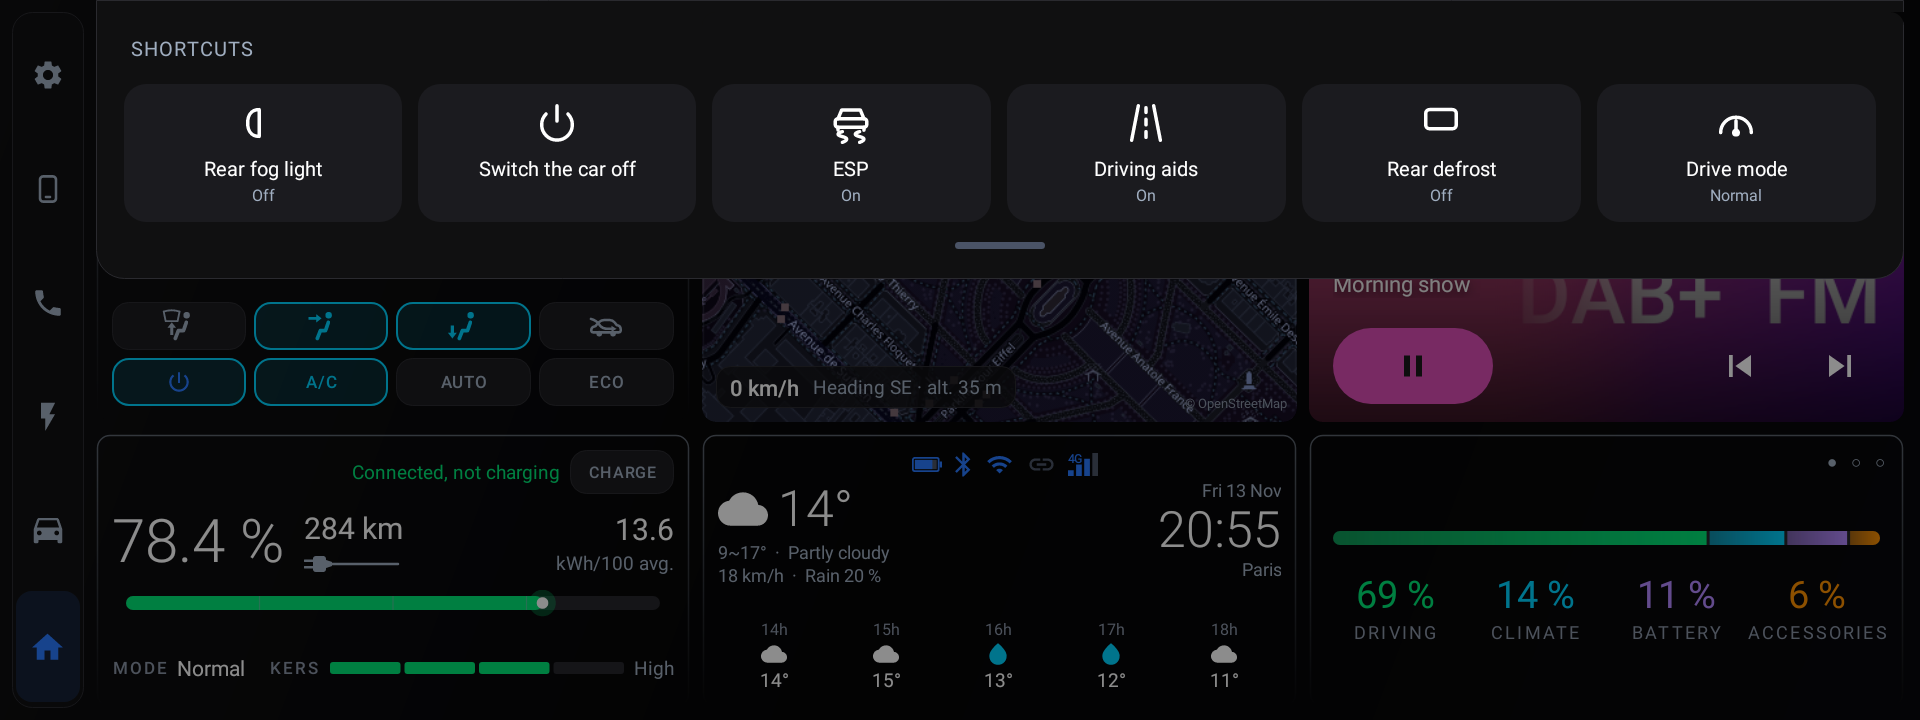
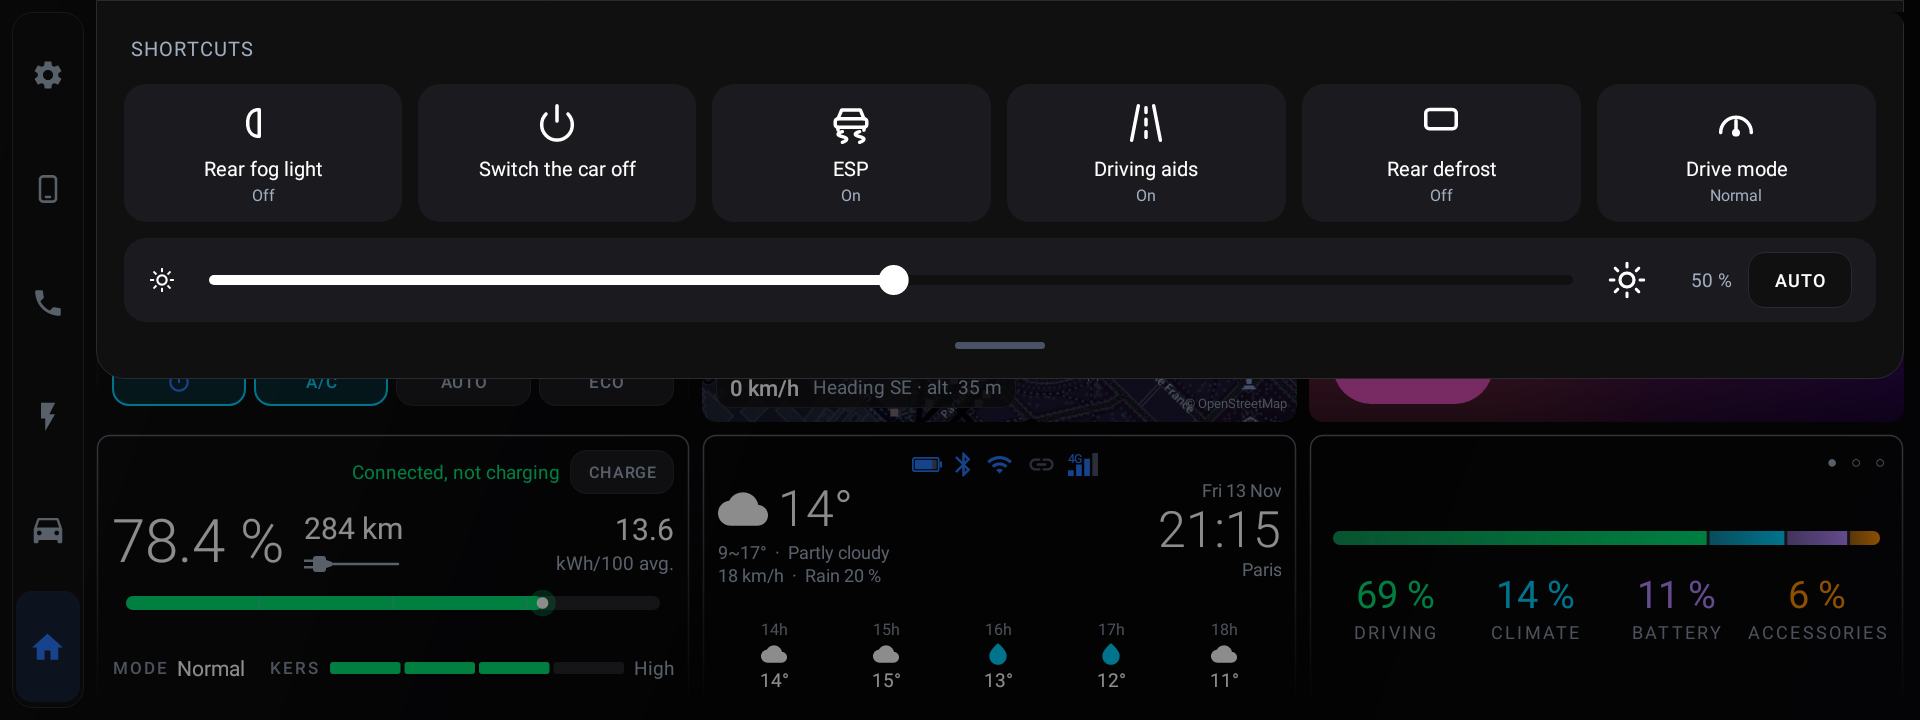
Shortcuts menu: screen brightness bar under the tiles, live while sliding, with an AUTO button (screen_brightness_mode 1, lit while on), as the stock quick panel, following the real settings; on by default, switched in the edit mode; README and screenshots

diff --git a/app/src/main/java/app/mg4dash/ui/ShortcutsPanel.kt b/app/src/main/java/app/mg4dash/ui/ShortcutsPanel.kt
@@ -272,6 +272,10 @@ object ShortcutsPanel : Application.ActivityLifecycleCallbacks {
                 }
                 grid.addView(row, LinearLayout.LayoutParams(-1, -2).apply { bottomMargin = kit.dp(16) })
             }
+            // Screen brightness under the tiles (option, on by default): in the edit mode a touch switches it
+            if (prefs.shortcutsBrightness || editing) grid.addView(BrightnessBar().apply {
+                if (editing) { alpha = if (prefs.shortcutsBrightness) 1f else 0.35f; editToggle = { prefs.shortcutsBrightness = !prefs.shortcutsBrightness; render() } }
+            }, LinearLayout.LayoutParams(-1, kit.dp(84)).apply { bottomMargin = kit.dp(16) })
             if (editing) grid.addView(TextView(ctx).apply {
                 text = ctx.getString(R.string.sc_edit_hint); setTextColor(c(R.color.text_sub)); setTextSize(TypedValue.COMPLEX_UNIT_SP, 17f)
             })
@@ -334,6 +338,114 @@ object ShortcutsPanel : Application.ActivityLifecycleCallbacks {
                 state.text = s?.state ?: ""
                 // Not usable now (rear fog light with the lights off): greyed
                 alpha = if (s?.disabled == true && !editing) 0.45f else if (editing) alpha else 1f
+            }
+        }
+
+        /**
+         * Screen brightness, as the stock quick panel sets it (Settings.System screen_brightness, 0 to 255, and the
+         * automatic mode turned off when moved by hand): small sun, track with a round knob, big sun, percentage. It
+         * follows the finger live; the last value is written once more when let go.
+         */
+        @SuppressLint("ViewConstructor")
+        private inner class BrightnessBar : LinearLayout(ctx) {
+            var editToggle: (() -> Unit)? = null
+            private val pct = TextView(ctx).apply { setTextColor(c(R.color.text_sub)); setTextSize(TypedValue.COMPLEX_UNIT_SP, 19f); gravity = Gravity.END or Gravity.CENTER_VERTICAL }
+            private val track = Track()
+            private var value = read()
+            private var lastWrite = 0L
+            private val auto = TextView(ctx).apply {
+                text = "AUTO"; gravity = Gravity.CENTER; setTextSize(TypedValue.COMPLEX_UNIT_SP, 18f)
+                typeface = Typeface.create("sans-serif-medium", Typeface.NORMAL); letterSpacing = 0.05f
+            }
+            private val autoBg = GradientDrawable().apply { cornerRadius = kit.dp(16).toFloat(); setStroke(1, c(R.color.panel_border)) }
+
+            init {
+                orientation = HORIZONTAL; gravity = Gravity.CENTER_VERTICAL
+                background = GradientDrawable().apply { setColor(c(R.color.button_idle)); cornerRadius = kit.dp(22).toFloat() }
+                setPadding(kit.dp(24), 0, kit.dp(24), 0)
+                fun sun(size: Int) = ImageView(ctx).apply { setImageResource(R.drawable.ic_sc_sun); setColorFilter(c(R.color.text_value)) }
+                addView(sun(0), LayoutParams(kit.dp(28), kit.dp(28)))
+                addView(track, LayoutParams(0, -1, 1f).apply { leftMargin = kit.dp(18); rightMargin = kit.dp(18) })
+                addView(sun(0), LayoutParams(kit.dp(42), kit.dp(42)))
+                addView(pct, LayoutParams(kit.dp(84), -2))
+                // AUTO: back to the automatic brightness, as the stock quick panel (screen_brightness_mode 1); lit while on
+                addView(auto, LayoutParams(kit.dp(104), kit.dp(56)).apply { leftMargin = kit.dp(16) })
+                auto.setOnClickListener {
+                    if (editToggle != null) return@setOnClickListener
+                    try { android.provider.Settings.System.putInt(ctx.contentResolver, "screen_brightness_mode", 1); Log.i(TAG, "brightness auto") }
+                    catch (e: Exception) { Log.w(TAG, "brightness auto: ${e.message}") }
+                    showAuto()
+                }
+                show(); showAuto()
+                isClickable = true
+                setOnLongClickListener { edit(true); true }
+            }
+
+            private fun read(): Int = try { android.provider.Settings.System.getInt(ctx.contentResolver, "screen_brightness") } catch (_: Exception) { 128 }
+
+            private fun autoOn(): Boolean = try { android.provider.Settings.System.getInt(ctx.contentResolver, "screen_brightness_mode", 0) == 1 } catch (_: Exception) { false }
+
+            /** Lit (inverted, as a tile that is on) while the automatic brightness is on. */
+            private fun showAuto() {
+                val on = autoOn()
+                autoBg.setColor(c(if (on) R.color.text_value else R.color.panel))
+                auto.setTextColor(c(if (on) R.color.panel else R.color.text_value))
+                auto.background = autoBg
+            }
+
+            /** The real settings followed: the car (or the stock panel) changing them shows here. */
+            private val watch = object : android.database.ContentObserver(main) {
+                override fun onChange(selfChange: Boolean) { value = read(); show(); showAuto() }
+            }
+            override fun onAttachedToWindow() {
+                super.onAttachedToWindow()
+                val cr = ctx.contentResolver
+                cr.registerContentObserver(android.provider.Settings.System.getUriFor("screen_brightness_mode"), false, watch)
+                cr.registerContentObserver(android.provider.Settings.System.getUriFor("screen_brightness"), false, watch)
+            }
+            override fun onDetachedFromWindow() { ctx.contentResolver.unregisterContentObserver(watch); super.onDetachedFromWindow() }
+
+            private fun show() { pct.text = "${Math.round(value * 100f / 255f)} %"; track.invalidate() }
+
+            private fun write(v: Int, final: Boolean) {
+                val now = SystemClock.uptimeMillis()
+                if (!final && now - lastWrite < 60) return
+                lastWrite = now
+                try {
+                    val cr = ctx.contentResolver
+                    if (android.provider.Settings.System.getInt(cr, "screen_brightness_mode", 0) != 0) android.provider.Settings.System.putInt(cr, "screen_brightness_mode", 0)
+                    android.provider.Settings.System.putInt(cr, "screen_brightness", v)
+                    if (final) Log.i(TAG, "brightness $v")
+                } catch (e: Exception) { Log.w(TAG, "brightness: ${e.message}") }
+            }
+
+            @SuppressLint("ClickableViewAccessibility")
+            override fun onTouchEvent(e: MotionEvent): Boolean {
+                editToggle?.let { t -> if (e.actionMasked == MotionEvent.ACTION_UP) t(); return true }
+                val x = e.x - track.left
+                if (e.actionMasked == MotionEvent.ACTION_DOWN && e.x > track.right + kit.dp(8)) return false
+                val v = ((x - track.r) / (track.width - 2 * track.r)).coerceIn(0f, 1f).let { Math.round(it * 255) }
+                when (e.actionMasked) {
+                    MotionEvent.ACTION_DOWN -> { parent?.requestDisallowInterceptTouchEvent(true); value = v; show(); write(v, false) }
+                    MotionEvent.ACTION_MOVE -> { value = v; show(); write(v, false) }
+                    MotionEvent.ACTION_UP, MotionEvent.ACTION_CANCEL -> { value = v; show(); write(v, true) }
+                }
+                return true
+            }
+
+            /** The track: filled up to the value, with its knob, in the colour of the tiles that are on. */
+            private inner class Track : View(ctx) {
+                val r get() = kit.dp(15).toFloat()
+                private val paint = android.graphics.Paint(android.graphics.Paint.ANTI_ALIAS_FLAG)
+                override fun onDraw(cv: android.graphics.Canvas) {
+                    val cy = height / 2f; val h = kit.dp(10).toFloat()
+                    val x = r + (width - 2 * r) * value / 255f
+                    paint.color = c(R.color.panel)
+                    cv.drawRoundRect(r, cy - h / 2, width - r, cy + h / 2, h / 2, h / 2, paint)
+                    paint.color = c(R.color.text_value)
+                    cv.drawRoundRect(r, cy - h / 2, x, cy + h / 2, h / 2, h / 2, paint)
+                    cv.drawCircle(x, cy, r, paint)
+                }
             }
         }
 

diff --git a/app/src/main/java/app/mg4dash/system/Prefs.kt b/app/src/main/java/app/mg4dash/system/Prefs.kt
@@ -462,6 +462,11 @@ class Prefs(context: Context) {
         get() = sp.getInt("shortcut_fcw", 2)
         set(v) = sp.edit().putInt("shortcut_fcw", v).apply()
 
+    /** Screen brightness bar under the shortcuts menu's tiles (on by default; switched in its edit mode). */
+    var shortcutsBrightness: Boolean
+        get() = sp.getBoolean("shortcuts_brightness", true)
+        set(v) = sp.edit().putBoolean("shortcuts_brightness", v).apply()
+
     /** ADB turned on at each start (once unlocked), as the adbutil app does; off by default. */
     var adbAtStart: Boolean
         get() = sp.getBoolean("adb_at_start", false)

diff --git a/README.md b/README.md
@@ -41,16 +41,17 @@ The default home screen (*Full* layout, vertical bar on the left). From left to 
 
 ## Shortcuts menu
 
-![Shortcuts menu, dark mode](docs/screenshots/shortcuts_menu.png?v=25)
+![Shortcuts menu, dark mode](docs/screenshots/shortcuts_menu.png?v=26)
 
 | Light mode | Following the finger |
 |---|---|
-| ![Shortcuts menu, light mode](docs/screenshots/shortcuts_menu_light.png?v=25) | ![Shortcuts menu half pulled](docs/screenshots/shortcuts_menu_half.png?v=25) |
+| ![Shortcuts menu, light mode](docs/screenshots/shortcuts_menu_light.png?v=26) | ![Shortcuts menu half pulled](docs/screenshots/shortcuts_menu_half.png?v=26) |
 
 Slide one finger down from the very top of the screen to pull the **shortcuts menu**: a panel of tiles that follows the finger, over every MG4Dash screen and, in full screen, over the other apps too (Android Auto included). Slide it back up or touch beside it to close it.
 
 - Each tile sends a single command and shows the car's state at once, in its line and in its icon: rear fog light (greyed while the lights are off), switch the car off (refused while driving), ESP, driving aids (lane keeping, collision and drowsiness warnings, *Turn all off*), rear defrost, drive mode, and to add: regeneration, one pedal, climate (heating or cooling, set point and outside temperature), battery preheat, heated wheel, doors, charge lock, V2L, screen off, cut Android Auto, ADB. A tile whose command the car does not have is not offered.
 - Long press the menu to choose its tiles; by default only the first row.
+- **Screen brightness** under the tiles: slide the bar (live), or touch **AUTO** for the automatic brightness, as the stock quick panel; AUTO is lit while it is on. The bar can be switched off in the menu's edit mode.
 - Settings › Home › *Shortcuts menu* (on by default): it also **hides MG's fog light button** with a SystemUI overlay that MG4Dash installs and switches with the option, from the head unit's next start (checked on SWI69 R45), and gives its corner back (full height bar, no margin). Off, everything is as before: the button in its place, no menu.
 - With MG4Link, its own two and three finger gestures from the top stay as they are; the menu opens with one finger.
 
